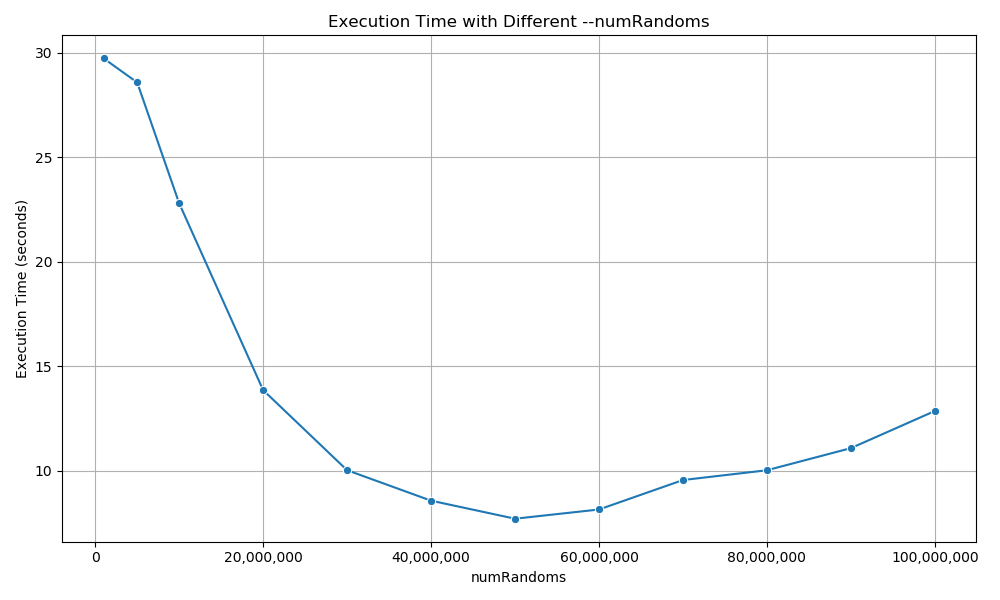
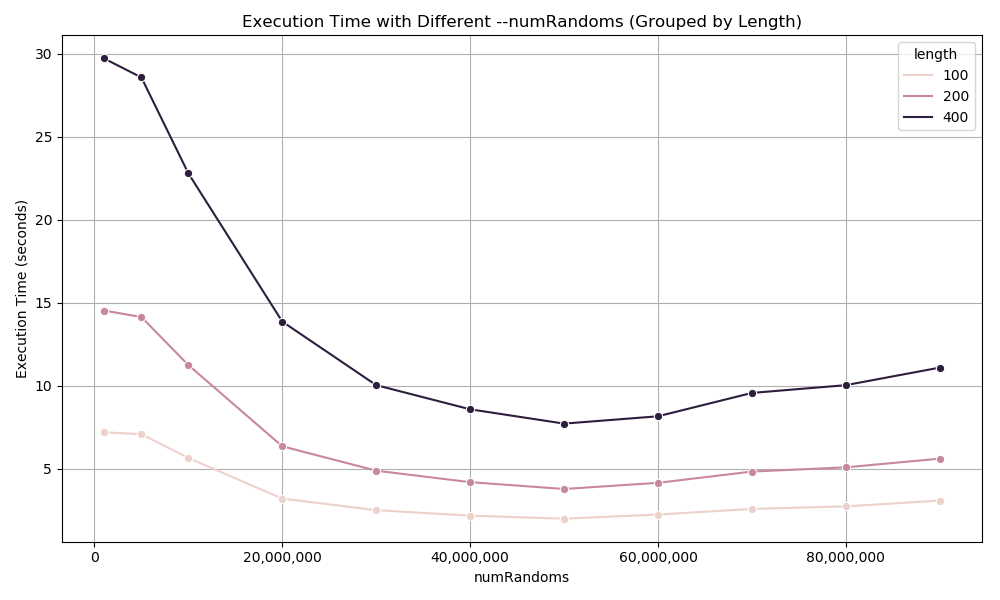
results

diff --git a/benchmarks/randoms.py b/benchmarks/randoms.py
@@ -1,31 +1,32 @@
 import pandas as pd
 import matplotlib.pyplot as plt
+import seaborn as sns
+from matplotlib.ticker import FuncFormatter
 
-# Load CSV
-df = pd.read_csv("csvs/combined-numbers.csv")
+# Load and clean the data
+df = pd.read_csv("csvs/randoms.csv")
+df.columns = df.columns.str.strip()
 
-# Compute average time per implementation
-avg_times = df.groupby("implementation")["time_seconds"].mean().sort_values()
+df['time_seconds'] = pd.to_numeric(df['time_seconds'], errors='coerce')
+df['numRandoms'] = pd.to_numeric(df['numRandoms'], errors='coerce')
+df['length'] = pd.to_numeric(df['length'], errors='coerce')
+df = df.dropna(subset=['time_seconds'])
 
-# Plotting
+# Group by both numRandoms and length
+grouped = df.groupby(['numRandoms', 'length']).agg({'time_seconds': 'mean'}).reset_index()
+
+# Plot
 plt.figure(figsize=(10, 6))
-bar_colour = "#4A90E2"
-bars = avg_times.plot(kind="bar", color=bar_colour)
+sns.lineplot(data=grouped, x='numRandoms', y='time_seconds', hue='length', marker='o')
 
-plt.title("Average Time per Implementation (Log Scale)")
-plt.ylabel("Time (seconds, log scale)")
-plt.xlabel("Implementation")
-plt.xticks(rotation=45, ha="right")
+plt.title('Execution Time with Different --numRandoms (Grouped by Length)')
+plt.xlabel('numRandoms')
+plt.ylabel('Execution Time (seconds)')
+plt.grid(True)
 
-# Padding the y-axis limit
-y_max = avg_times.max()
-plt.ylim(top=y_max * 1.2)  # Add 20% headroom
-
-# Add value labels
-for i, value in enumerate(avg_times):
-    plt.text(i, value * 1.05, f"{value:.6f}", ha="center", va="bottom", fontsize=9)
+# Format x-axis with commas
+plt.gca().xaxis.set_major_formatter(FuncFormatter(lambda x, _: f"{int(x):,}"))
 
 plt.tight_layout()
-plt.savefig("figs/mersenne.png")
+plt.savefig("figs/numRandoms.png")
 plt.show()
-plt.close()

diff --git a/benchmarks/mersenne.py b/benchmarks/mersenne.py
@@ -1,0 +1,31 @@
+import pandas as pd
+import matplotlib.pyplot as plt
+
+# Load CSV
+df = pd.read_csv("csvs/combined-numbers.csv")
+
+# Compute average time per implementation
+avg_times = df.groupby("implementation")["time_seconds"].mean().sort_values()
+
+# Plotting
+plt.figure(figsize=(10, 6))
+bar_colour = "#4A90E2"
+bars = avg_times.plot(kind="bar", color=bar_colour)
+
+plt.title("Average Time per Implementation")
+plt.ylabel("Time (seconds)")
+plt.xlabel("Implementation")
+plt.xticks(rotation=45, ha="right")
+
+# Padding the y-axis limit
+y_max = avg_times.max()
+plt.ylim(top=y_max * 1.2)  # Add 20% headroom
+
+# Add value labels
+for i, value in enumerate(avg_times):
+    plt.text(i, value * 1.05, f"{value:.6f}", ha="center", va="bottom", fontsize=9)
+
+plt.tight_layout()
+plt.savefig("figs/mersenne.png")
+plt.show()
+plt.close()
